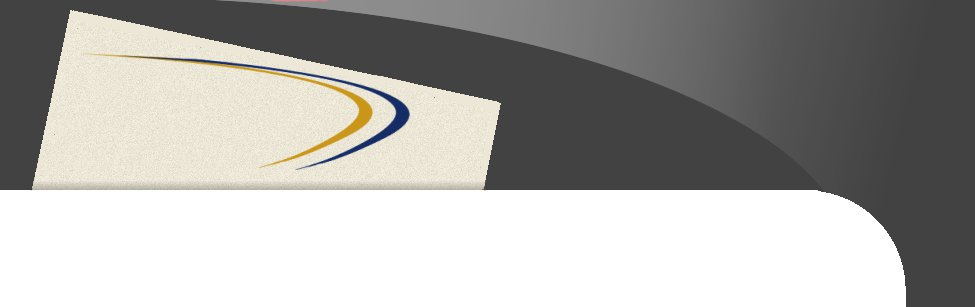
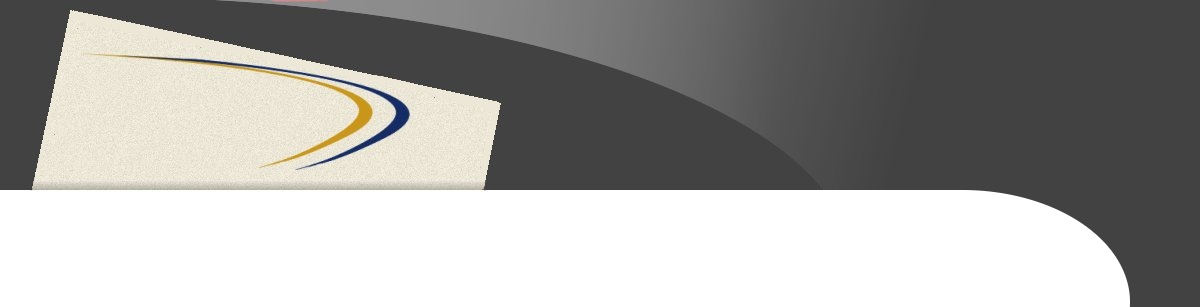
fix layout for 1200 width

diff --git a/style/Simple_folder/style.css b/style/Simple_folder/style.css
@@ -90,7 +90,7 @@ th {
     position: absolute;
     top: 307px;
     left: 82px;
-    width: 1118px;
+    width: 1048px;
     height: 410px;
     background-color: #ffffff
 }
@@ -99,7 +99,7 @@ th {
     position: absolute;
     top: 718px;
     left: 0px;
-    width: 906px;
+    width: 1130px;
     height: 100px;
     background-image: url('images/reflection.png');
     background-repeat: repeat-x
